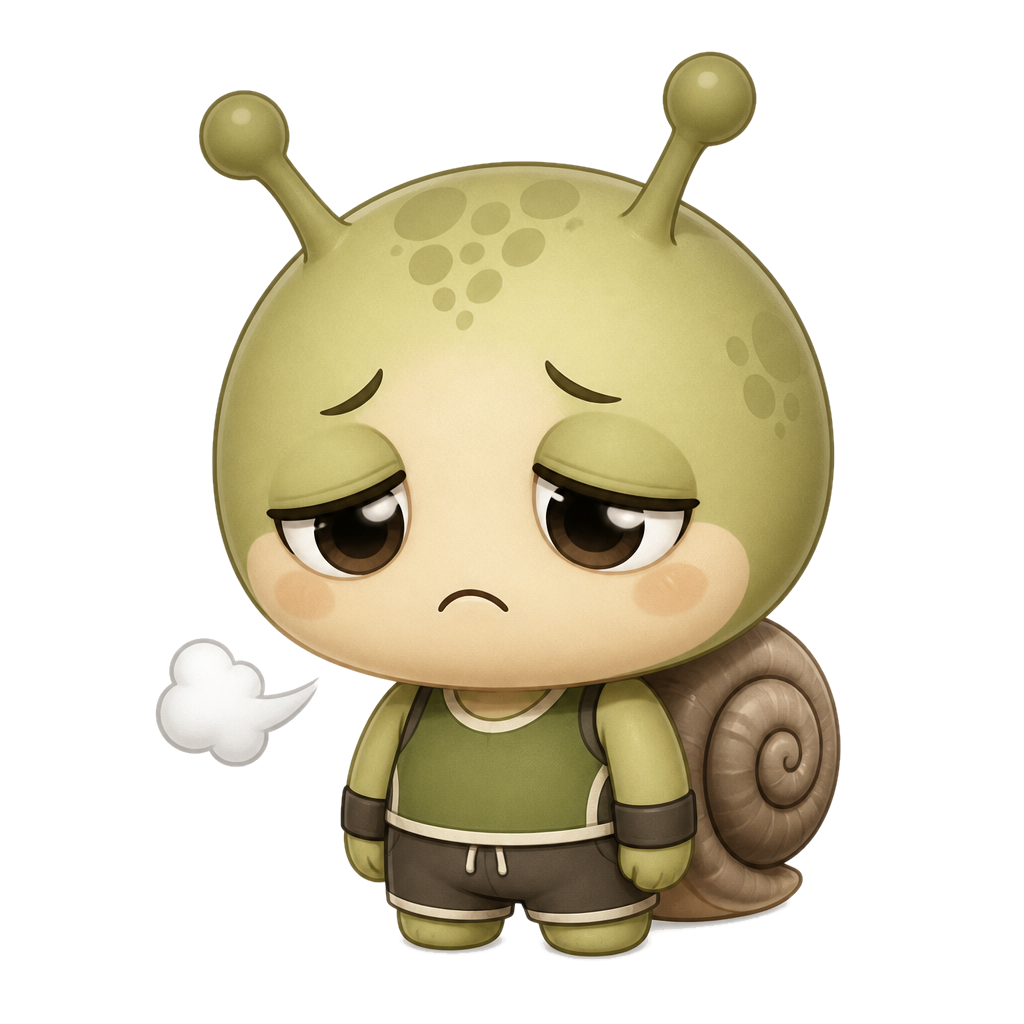
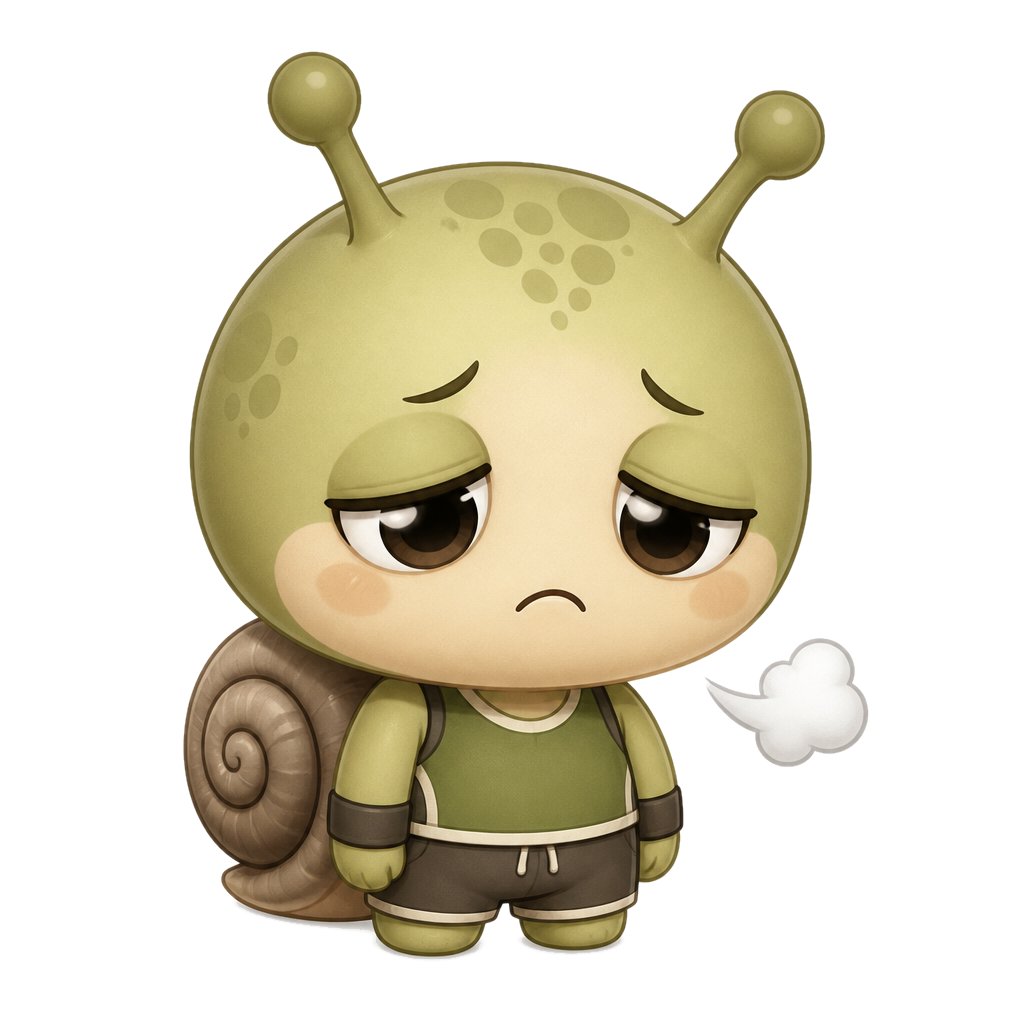
달팽이도 오른쪽을 보게: 그림 파일을 좌우 반전하고 워킹 트랙의 코드 반전·흰 바탕 필터 제거
모든 티어 동물이 오른쪽을 보는데 달팽이만 왼쪽을 봐서 화면마다 코드로 뒤집던 것을 그림 자체를 고쳐 어디서나 같게 함.

Claude-Session: https://claude.ai/code/session_01Sv91Nd6H3FACTXdNccDL5Q

Changed region(s): [[0.1562, 0.0312, 0.8438, 0.9375]]

diff --git a/lib/features/pedometer/walking_look.dart b/lib/features/pedometer/walking_look.dart
@@ -68,15 +68,6 @@ abstract final class WalkingLook {
   static const snailWalkingAsset =
       'assets/images/characters/chibi_snail_smiling.png';
 
-  /// Alpha-only knockout for the snail PNG's opaque near-white plate.
-  /// Does **not** tint pixels (no `primaryMint` / `BlendMode.multiply` rect).
-  static const whitePlateKnockout = ColorFilter.matrix(<double>[
-    1, 0, 0, 0, 0,
-    0, 1, 0, 0, 0,
-    0, 0, 1, 0, 0,
-    -4, -4, -4, 11.6, 0,
-  ]);
-
   static String mascotAsset(UserTier tier) {
     if (tier.isSnail) return snailWalkingAsset;
     return tier.avatarAssetPath;
@@ -384,11 +375,8 @@ class _WalkingMascotState extends State<WalkingMascot>
                 scaleX: scaleX,
                 scaleY: scaleY,
                 alignment: Alignment.bottomCenter,
-                // 달팽이 그림만 왼쪽을 봐서 뒤집는다. 티어 동물은 오른쪽을 본다.
-                child: Transform.flip(
-                  flipX: widget.tier.isSnail,
-                  child: child,
-                ),
+                // 달팽이 그림도 티어 동물처럼 오른쪽을 본다.
+                child: child,
               ),
             ),
           ),
@@ -446,11 +434,7 @@ class _WalkingMascotState extends State<WalkingMascot>
         color: WalkingLook.onHero,
       ),
     );
-    if (!widget.tier.isSnail) return image;
-    return ColorFiltered(
-      colorFilter: WalkingLook.whitePlateKnockout,
-      child: image,
-    );
+    return image;
   }
 }
 

diff --git a/test/features/pedometer/walking_look_test.dart b/test/features/pedometer/walking_look_test.dart
@@ -110,15 +110,15 @@ void main() {
     final image = tester.widget<Image>(find.byKey(const Key('walking-mascot')));
     expect(image.color, isNull);
     expect(image.colorBlendMode, isNull);
+    // The PNG is already transparent and faces right like every tier animal,
+    // so there is no plate filter and no mirror flip.
+    expect(find.byType(ColorFiltered), findsNothing);
     expect(
-      find.descendant(
-        of: find.byType(ColorFiltered),
-        matching: find.byKey(const Key('walking-mascot')),
-      ),
-      findsOneWidget,
+      tester.widgetList<Transform>(find.byType(Transform)).where(
+            (t) => t.transform.storage[0] < 0,
+          ),
+      isEmpty,
     );
-    final filter = tester.widget<ColorFiltered>(find.byType(ColorFiltered));
-    expect(filter.colorFilter, WalkingLook.whitePlateKnockout);
   });
 
   testWidgets('WalkingMascot stays the static smiling snail (motion off)',

diff --git a/test/features/onboarding/tier_animals_test.dart b/test/features/onboarding/tier_animals_test.dart
@@ -61,7 +61,7 @@ void main() {
     expect(AvatarPresets.byId('horse').label, '말');
   });
 
-  testWidgets('only the left-facing snail is mirrored on the walking track',
+  testWidgets('no mascot is mirrored on the walking track: the snail PNG faces right too',
       (tester) async {
     bool mirrored(WidgetTester t) {
       final transforms = t.widgetList<Transform>(
@@ -80,7 +80,7 @@ void main() {
         );
 
     await pump(UserTier.unratedFallback);
-    expect(mirrored(tester), isTrue);
+    expect(mirrored(tester), isFalse);
 
     await pump(const UserTier(animal: TierAnimal.cheetah, medal: TierMedal.gold));
     expect(mirrored(tester), isFalse);
